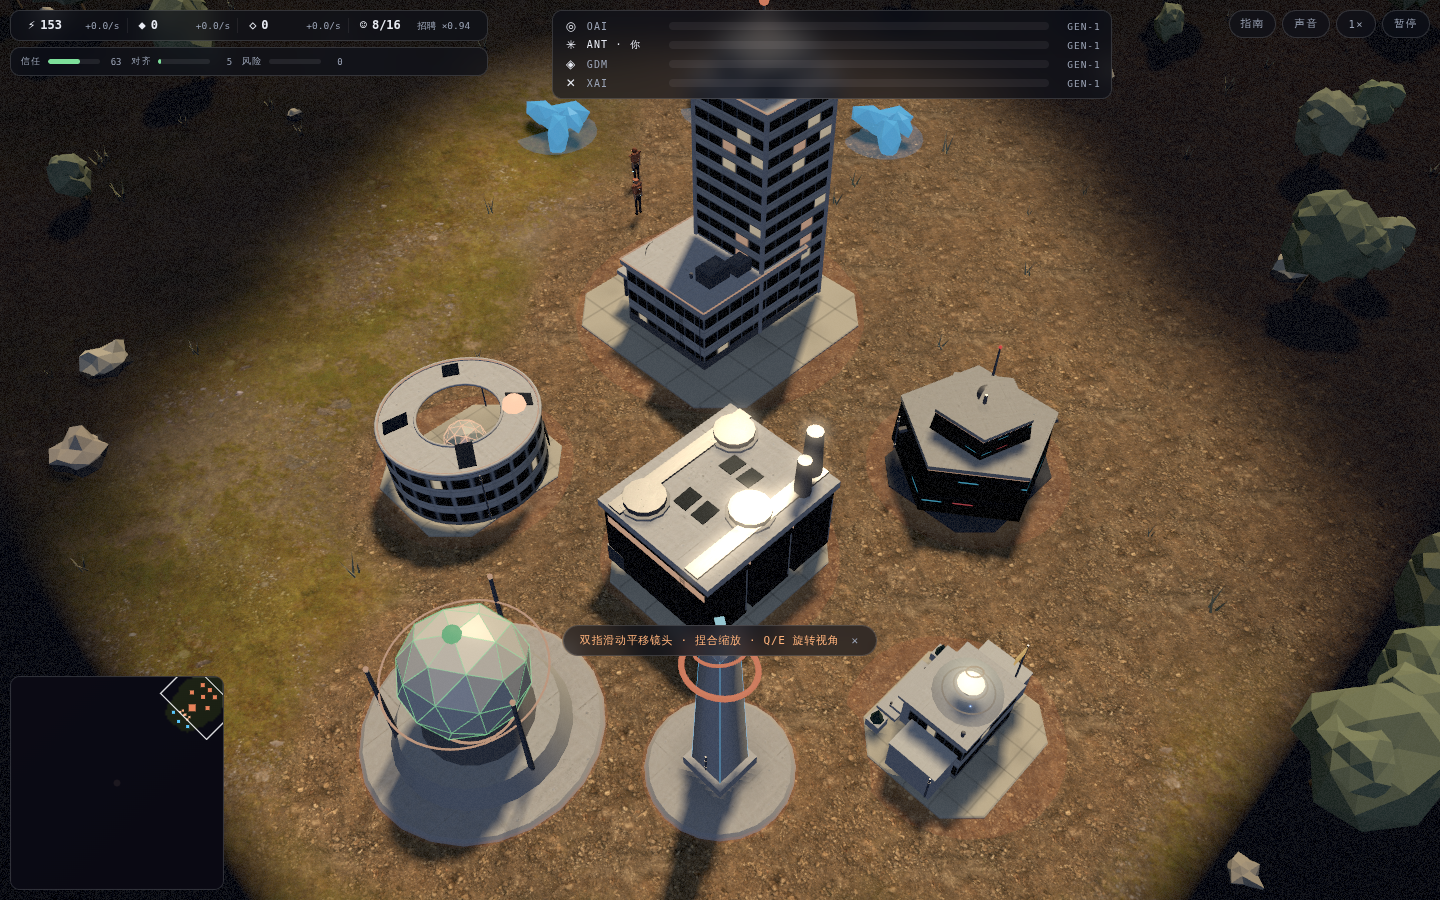
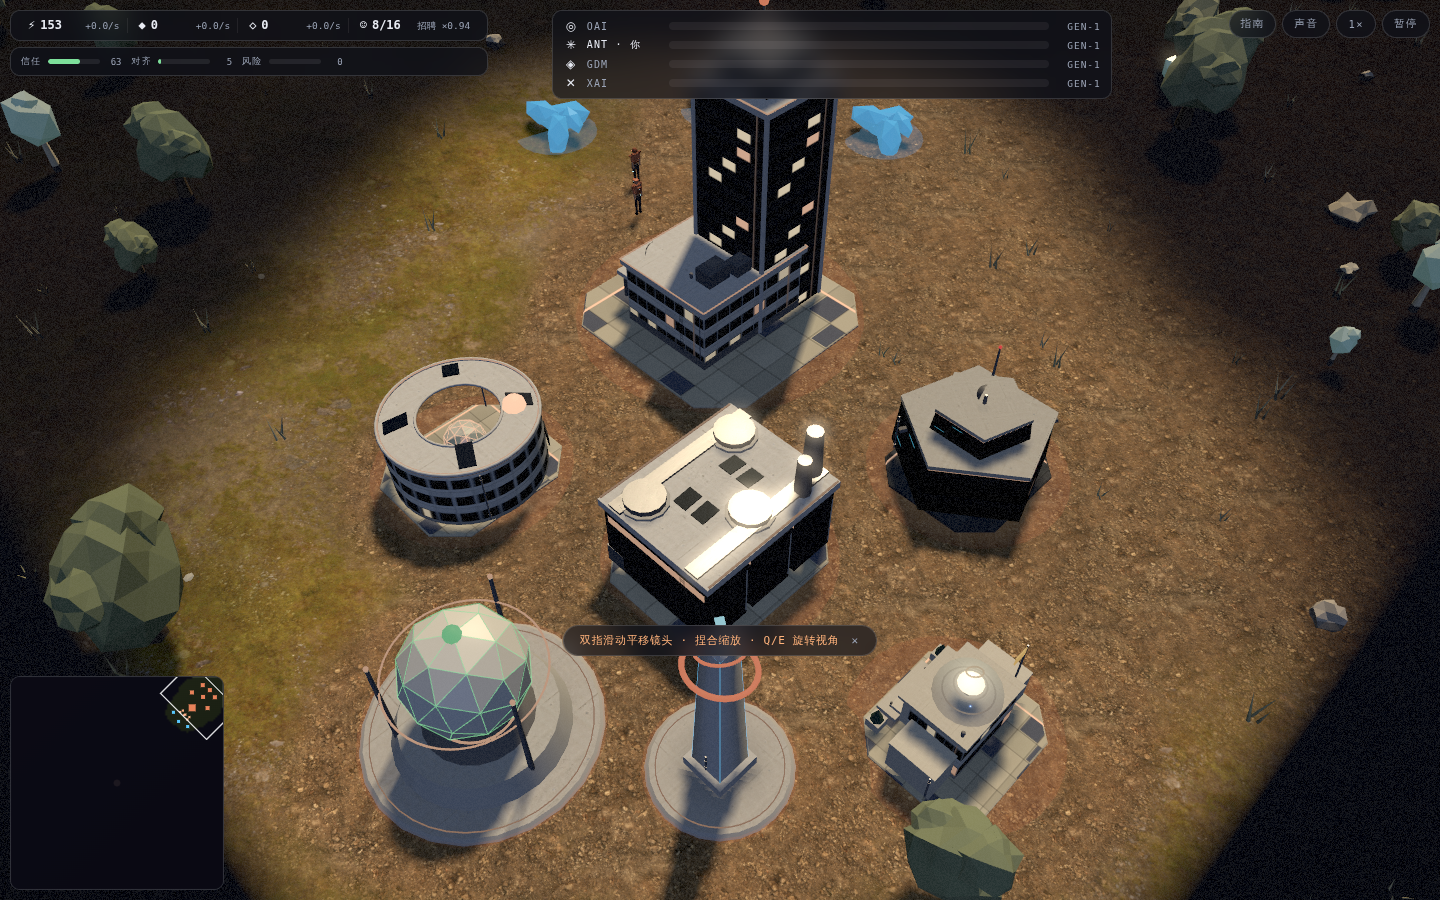
Color pass: two-tone architecture, tech tile paving, faction livery
The de-cartoon passes had drained the campus to one flat concrete tone.
This reintroduces color as a disciplined scheme — neutrals in two tones,
faction accent as livery, warm window light, cool tech seams:

- Facade system gains a 'dark' tone (graphite curtain wall, brighter lit
  chance) plus a per-faction supergraphic: an accent spine column and an
  accent parapet trim line etched into albedo + emissive
- HQ tower and crown switch to graphite glass over the white podium —
  the two-tone contrast that makes tech campuses read expensive
- Site paving rewritten as tech tile: two-tone tile fields with tonal
  jitter, graphite inserts, and inlaid light seams in the faction accent
  drawn into an emissive map (etched by day, burning at dusk); secure
  scheme for the security office
- Institute/tower round pads get an accent light ring inlay; datacenter
  roof deck gets accent trim rails; policy office warms to ivory stone;
  entry wayfinding stripes read stronger
- Theme carries paving palettes and facadeDark for both day and dusk

View-layer only; seed-42 hash unchanged (3|575.3|37|25).

Claude-Session: https://claude.ai/code/session_01XzQMfbELeWX7jxqbKurSwm

diff --git a/js/view/buildings.js b/js/view/buildings.js
@@ -40,9 +40,9 @@ function tex() {
 // per (floors, cols, accent, theme), cached.
 // ---------------------------------------------------------------------------
 const facCache = new Map();
-function facadeMats(floors, cols, accentHex) {
-  const F = THEME.mats.facade;
-  const key = `${THEME.key}|${floors}|${cols}|${accentHex}`;
+function facadeMats(floors, cols, accentHex, tone = 'light') {
+  const F = tone === 'dark' ? THEME.mats.facadeDark : THEME.mats.facade;
+  const key = `${THEME.key}|${floors}|${cols}|${accentHex}|${tone}`;
   if (facCache.has(key)) return facCache.get(key);
   const W = 256, H = 64 * floors;
   const alb = document.createElement('canvas'); alb.width = W; alb.height = H;
@@ -90,13 +90,23 @@ function facadeMats(floors, cols, accentHex) {
       a.fillRect(x, y + sillY + glassH, 1, fh - sillY - glassH);
     }
   }
+  // corporate supergraphic: one accent spine column + an accent parapet line
+  // — brand color woven into the architecture, not painted on top of it
+  a.globalAlpha = 0.8; a.fillStyle = accent;
+  a.fillRect(Math.floor(W * 0.86), 8, 5, H - 8);
+  a.globalAlpha = 1;
+  e.globalAlpha = 0.3; e.fillStyle = accent;
+  e.fillRect(Math.floor(W * 0.86), 8, 5, H - 8);
+  e.globalAlpha = 1;
   // street-level occlusion — the wall darkens toward the ground
   const aoG = a.createLinearGradient(0, H - fh * 0.85, 0, H);
   aoG.addColorStop(0, 'rgba(0,0,0,0)'); aoG.addColorStop(1, 'rgba(18,14,10,0.30)');
   a.fillStyle = aoG; a.fillRect(0, H - fh * 0.85, W, fh * 0.85);
-  // parapet cap line
+  // parapet cap line + accent trim under it
   a.fillStyle = 'rgba(255,255,255,0.28)'; a.fillRect(0, 0, W, 4);
   a.fillStyle = 'rgba(0,0,0,0.18)'; a.fillRect(0, 4, W, 2);
+  a.globalAlpha = 0.85; a.fillStyle = accent; a.fillRect(0, 6, W, 2); a.globalAlpha = 1;
+  e.globalAlpha = 0.4; e.fillStyle = accent; e.fillRect(0, 6, W, 2); e.globalAlpha = 1;
   const mk = (c) => { const t = new THREE.CanvasTexture(c); t.colorSpace = THREE.SRGBColorSpace; t.anisotropy = 4; return t; };
   const fac = new THREE.MeshStandardMaterial({
     map: mk(alb), roughness: 0.42, metalness: 0.12,
@@ -109,8 +119,8 @@ function facadeMats(floors, cols, accentHex) {
 }
 
 // box whose sides wear the facade and whose top/bottom stay roof concrete
-function facBox(w, h, d, floors, cols, accentHex, x, y, z) {
-  const { fac, roof } = facadeMats(floors, cols, accentHex);
+function facBox(w, h, d, floors, cols, accentHex, x, y, z, tone = 'light') {
+  const { fac, roof } = facadeMats(floors, cols, accentHex, tone);
   const m = new THREE.Mesh(new THREE.BoxGeometry(w, h, d), [fac, fac, roof, roof, fac, fac]);
   m.position.set(x, y, z);
   m.castShadow = m.receiveShadow = true;
@@ -202,35 +212,71 @@ function contactAO(rx, rz, x = 0, z = 0, y = 0.175) {
   return m;
 }
 
-// scored-concrete site paving: expansion-joint grid + weather blotches. Real
-// campuses pour a slab, they don't ship buildings on trays.
+// tech paving: two-tone tile fields with graphite inserts and inlaid light
+// seams in the faction accent — campus hardscape with circuitry in it, not a
+// monochrome concrete pour. Albedo + emissive pair per (theme, scheme, accent).
 const pavingCache = new Map();
-function pavingTex(baseCss) {
-  const key = THEME.key + '|' + baseCss;
+function pavingMat(accentHex, scheme = 'campus') {
+  const key = `${THEME.key}|${scheme}|${accentHex}`;
   if (pavingCache.has(key)) return pavingCache.get(key);
-  const S = 256, c = document.createElement('canvas'); c.width = c.height = S;
-  const g = c.getContext('2d');
-  g.fillStyle = baseCss; g.fillRect(0, 0, S, S);
-  for (let i = 0; i < 46; i++) {           // rain stains, tyre scrub, age
-    const x = Math.random() * S, y = Math.random() * S, r = 6 + Math.random() * 26;
-    const gr = g.createRadialGradient(x, y, 0, x, y, r);
-    gr.addColorStop(0, `rgba(20,18,14,${(0.02 + Math.random() * 0.05).toFixed(3)})`);
+  const P = THEME.mats.paving[scheme];
+  const accent = '#' + accentHex.toString(16).padStart(6, '0');
+  const S = 256, T = 32;
+  const alb = document.createElement('canvas'); alb.width = alb.height = S;
+  const emi = document.createElement('canvas'); emi.width = emi.height = S;
+  const a = alb.getContext('2d'), e = emi.getContext('2d');
+  a.fillStyle = P.base; a.fillRect(0, 0, S, S);
+  e.fillStyle = '#000'; e.fillRect(0, 0, S, S);
+  for (let ty = 0; ty < S; ty += T) {          // per-tile tonal jitter
+    for (let tx = 0; tx < S; tx += T) {
+      const r = Math.random();
+      if (r < 0.14) {                           // graphite tech insert
+        a.fillStyle = P.ins; a.fillRect(tx + 1, ty + 1, T - 2, T - 2);
+      } else if (r < 0.5) {
+        a.fillStyle = `rgba(10,12,18,${(0.03 + Math.random() * 0.07).toFixed(3)})`;
+        a.fillRect(tx, ty, T, T);
+      } else if (r > 0.86) {
+        a.fillStyle = `rgba(255,255,255,${(0.03 + Math.random() * 0.04).toFixed(3)})`;
+        a.fillRect(tx, ty, T, T);
+      }
+    }
+  }
+  for (let i = 0; i < 26; i++) {               // rain stains, tyre scrub
+    const x = Math.random() * S, y = Math.random() * S, r = 8 + Math.random() * 24;
+    const gr = a.createRadialGradient(x, y, 0, x, y, r);
+    gr.addColorStop(0, `rgba(20,18,14,${(0.02 + Math.random() * 0.04).toFixed(3)})`);
     gr.addColorStop(1, 'rgba(20,18,14,0)');
-    g.fillStyle = gr; g.beginPath(); g.arc(x, y, r, 0, Math.PI * 2); g.fill();
+    a.fillStyle = gr; a.beginPath(); a.arc(x, y, r, 0, Math.PI * 2); a.fill();
   }
-  const step = S / 6;
-  for (let i = 0; i <= 6; i++) {           // expansion joints + sun-lit lip
-    g.fillStyle = 'rgba(0,0,0,0.15)';
-    g.fillRect(i * step, 0, 2, S); g.fillRect(0, i * step, S, 2);
-    g.fillStyle = 'rgba(255,255,255,0.05)';
-    g.fillRect(i * step + 2, 0, 1, S); g.fillRect(0, i * step + 2, S, 1);
+  for (let i = 0; i <= S / T; i++) {           // joints + sun-lit lip
+    a.fillStyle = 'rgba(0,0,0,0.16)';
+    a.fillRect(i * T, 0, 2, S); a.fillRect(0, i * T, S, 2);
+    a.fillStyle = 'rgba(255,255,255,0.045)';
+    a.fillRect(i * T + 2, 0, 1, S); a.fillRect(0, i * T + 2, S, 1);
   }
-  const t = new THREE.CanvasTexture(c);
-  t.colorSpace = THREE.SRGBColorSpace;
-  t.wrapS = t.wrapT = THREE.RepeatWrapping;
-  t.anisotropy = 4;
-  pavingCache.set(key, t);
-  return t;
+  // inlaid light seams — one main line per axis plus a short branch, drawn
+  // into the emissive map so they burn at dusk and stay etched by day
+  const seam = (x, y, w, h) => {
+    a.fillStyle = accent; a.globalAlpha = 0.9; a.fillRect(x, y, w, h); a.globalAlpha = 1;
+    e.fillStyle = accent; e.fillRect(x, y, w, h);
+    e.fillStyle = 'rgba(255,255,255,0.55)';
+    e.fillRect(w > h ? x : x + 1, w > h ? y + 1 : y, w > h ? w : 1, w > h ? 1 : h);
+  };
+  seam(0, 95, S, 3); seam(159, 0, 3, S); seam(160, 96, 64, 2);
+  const mk = (c) => {
+    const t = new THREE.CanvasTexture(c);
+    t.colorSpace = THREE.SRGBColorSpace;
+    t.wrapS = t.wrapT = THREE.RepeatWrapping;
+    t.anisotropy = 4;
+    return t;
+  };
+  const mat = new THREE.MeshStandardMaterial({
+    map: mk(alb), normalMap: tex().concN, normalScale: new THREE.Vector2(0.25, 0.25),
+    roughness: 0.9, metalness: 0.04,
+    emissive: 0xffffff, emissiveIntensity: 0.8 * (THEME.glowScale ?? 1), emissiveMap: mk(emi),
+  });
+  pavingCache.set(key, mat);
+  return mat;
 }
 
 // trampled-earth skirt: an alpha-fading disc that feathers each site into the
@@ -426,15 +472,16 @@ function coreHQ(fdef) {
   // dark recessed lobby line at grade
   g.add(box(7.04, 0.5, 5.64, M.dark(), 0.4, 0.26, 0));
 
-  // tower — thirteen-storey glass slab with corner fins and a setback crown
-  g.add(facBox(4.6, 12.4, 4.6, 13, 5, fdef.accent, -2.4, 6.2, -0.5));
+  // tower — thirteen storeys of graphite glass over the white podium: the
+  // two-tone contrast is what makes the campus read expensive
+  g.add(facBox(4.6, 12.4, 4.6, 13, 5, fdef.accent, -2.4, 6.2, -0.5, 'dark'));
   g.add(box(5.0, 0.3, 5.0, parapet, -2.4, 12.55, -0.5));
   // vertical corner fins sharpen the silhouette against the sky
   for (const sx of [-1, 1]) for (const sz of [-1, 1]) {
     g.add(box(0.17, 12.3, 0.17, parapet, -2.4 + sx * 2.32, 6.2, -0.5 + sz * 2.32));
   }
   // setback glass crown ringed by a light band — the skyline signature
-  g.add(facBox(3.2, 1.4, 3.2, 2, 4, fdef.accent, -2.4, 13.32, -0.5));
+  g.add(facBox(3.2, 1.4, 3.2, 2, 4, fdef.accent, -2.4, 13.32, -0.5, 'dark'));
   g.add(box(3.5, 0.16, 3.5, parapet, -2.4, 14.08, -0.5));
   const bandMat = M.glow(fdef.accent, 1.2); lamps.push(bandMat);
   for (const [dx, dz, bw, bd] of [[0, 2.47, 5.0, 0.07], [0, -2.47, 5.0, 0.07], [2.47, 0, 0.07, 5.0], [-2.47, 0, 0.07, 5.0]]) {
@@ -531,6 +578,12 @@ function coreDatacenter(fdef) {
     }
     fan.position.set(x, 4.3, z); g.add(fan); spin.push(fan);
     g.add(cyl(1.05, 1.05, 0.22, M.concrete(0x3a3f56), x, 4.12, z, 12)); // fan shroud
+  }
+  // accent trim rails along the roof deck edges — hyperscaler brand livery
+  const trim = M.glow(fdef.accent, 0.6); lamps.push(trim);
+  for (const z of [3.1, -3.1]) {
+    const rail = box(7.4, 0.06, 0.08, trim, 0, 4.14, z);
+    rail.castShadow = false; g.add(rail);
   }
   // liquid-cooling light lines down the cold aisles + end-wall status slits +
   // dragonscale solar shingles on the roof deck
@@ -721,8 +774,8 @@ function corePolicy(fdef) {
   // funnel over a two-storey glass council block; fin colonnade for a porch —
   // statecraft rebuilt in curtain wall.
   const g = new THREE.Group(); const spin = [], lamps = [];
-  const white = M.concrete(0x9aa4b5);
-  const white2 = M.concrete(0x848ea6);
+  const white = M.concrete(0xa8a091);   // warm ivory — statecraft, not lab-coat grey
+  const white2 = M.concrete(0x91897c);
   g.add(facBox(3.4, 2.4, 2.4, 2, 6, fdef.accent, 0, 1.32, 0));        // council block
   g.add(box(3.6, 0.18, 2.6, white2, 0, 2.6, 0));                      // cornice
   g.add(box(1.3, 1.5, 2.0, white2, -2.35, 0.87, 0), box(1.3, 1.5, 2.0, white2, 2.35, 0.87, 0)); // wings
@@ -861,11 +914,7 @@ export function makeBuilding(type, fdef, fp) {
     skirt.userData.decal = true;
     group.add(skirt);
 
-    const apronMat = new THREE.MeshStandardMaterial({
-      map: pavingTex(type === 'secoffice' ? THEME.mats.apronDark : THEME.mats.apron),
-      normalMap: tex().concN, normalScale: new THREE.Vector2(0.25, 0.25),
-      roughness: 0.94, metalness: 0.02,
-    });
+    const apronMat = pavingMat(fdef.accent, type === 'secoffice' ? 'secure' : 'campus');
     const postMat = new THREE.MeshStandardMaterial({ color: 0x3a3e4e, roughness: 0.6, metalness: 0.4 });
 
     const rect = PLATES[type];
@@ -885,7 +934,7 @@ export function makeBuilding(type, fdef, fp) {
       if (type === 'hq' || type === 'secoffice' || type === 'policy') {
         // painted wayfinding stripe toward the entry + human-scale posts
         const stripe = new THREE.Mesh(new THREE.PlaneGeometry(1.4, 2.4),
-          new THREE.MeshBasicMaterial({ color: fdef.color, transparent: true, opacity: 0.2, depthWrite: false }));
+          new THREE.MeshBasicMaterial({ color: fdef.color, transparent: true, opacity: 0.3, depthWrite: false }));
         stripe.rotation.x = -Math.PI / 2; stripe.position.set(0, 0.155, wz - 1.4);
         stripe.userData.decal = true;
         group.add(stripe);
@@ -893,11 +942,16 @@ export function makeBuilding(type, fdef, fp) {
         group.add(cyl(0.05, 0.06, 0.5, postMat, 1.05, 0.37, wz - 0.45, 6));
       }
     } else {
-      // low round pad (institute, tower) — plain poured concrete
+      // low round pad (institute, tower) — poured concrete with an accent
+      // light ring inlaid at the rim
       const deck = new THREE.Mesh(new THREE.CylinderGeometry(fp + 0.42, fp + 0.6, 0.16, 24, 1),
         M.concrete(0x5c5a6e));
       deck.position.y = 0.08; deck.receiveShadow = true; deck.castShadow = false;
       group.add(deck);
+      const inlayMat = M.glow(fdef.accent, 0.7); lamps.push(inlayMat);
+      const inlay = new THREE.Mesh(new THREE.TorusGeometry(fp + 0.18, 0.028, 6, 40), inlayMat);
+      inlay.rotation.x = Math.PI / 2; inlay.position.y = 0.165; inlay.castShadow = false;
+      group.add(inlay);
     }
   }
 

diff --git a/js/view/theme.js b/js/view/theme.js
@@ -35,9 +35,14 @@ export const THEMES = {
       glassDay: true,           // curtain walls become lit white panels
       winBg: '#e0e3e9', winDark: '#232d3c', winLitScale: 0.5,
       nodeColor: 0x2a85c8, nodeEmissive: 0.5,   // matte azure in sunlight
-      apron: '#cfcabb', apronDark: '#494c57', skirt: 0x7d6b4c, // site paving & graded earth
+      skirt: 0x7d6b4c,          // graded-earth blend ring
+      paving: {                 // two-tone tech tiles + graphite inserts
+        campus: { base: '#c9c4b4', ins: '#59617a' },
+        secure: { base: '#42464f', ins: '#272b34' },
+      },
       aoDecal: 0.5,             // strong contact shadows under the noon sun
       facade: { wall: '#e9ebee', glass: '#0d141d', mullion: '#c4c9d2', lit: 0.1, emissive: 0.4 },
+      facadeDark: { wall: '#262b36', glass: '#0b121e', mullion: '#3d4556', lit: 0.24, emissive: 0.6 },
     },
     selRing: 0xff9752,          // bold warm selection rings, reference-style
     minimap: ['#232818', '#141a10'],
@@ -75,9 +80,14 @@ export const THEMES = {
       glassDay: false,
       winBg: '#07070d', winDark: '#1a2030', winLitScale: 1,
       nodeColor: 0x0e2030, nodeEmissive: 1.35,
-      apron: '#565372', apronDark: '#313449', skirt: 0x443c55,
+      skirt: 0x443c55,
+      paving: {
+        campus: { base: '#555271', ins: '#2d3046' },
+        secure: { base: '#343748', ins: '#1f222f' },
+      },
       aoDecal: 0.36,
       facade: { wall: '#262a3e', glass: '#0a0f1a', mullion: '#3c415c', lit: 0.55, emissive: 1.0 },
+      facadeDark: { wall: '#191d2a', glass: '#090e18', mullion: '#303748', lit: 0.62, emissive: 1.15 },
     },
     selRing: 0xffffff,
     minimap: ['#171531', '#221a33'],